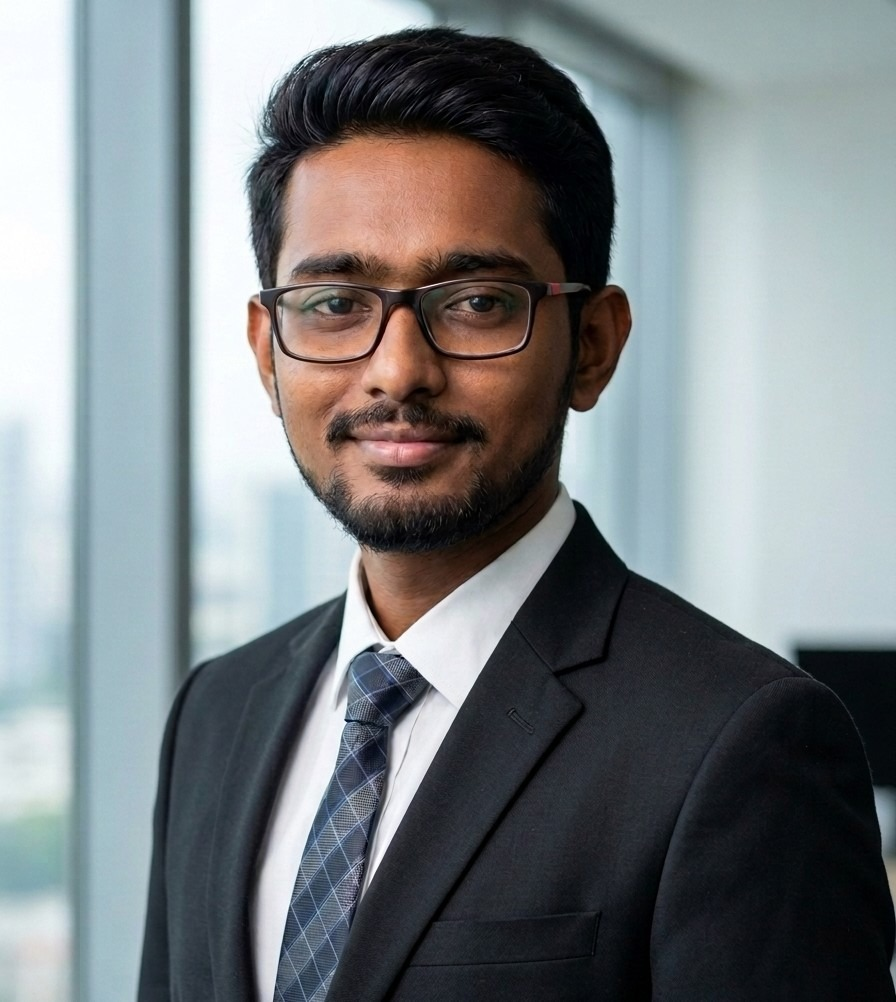
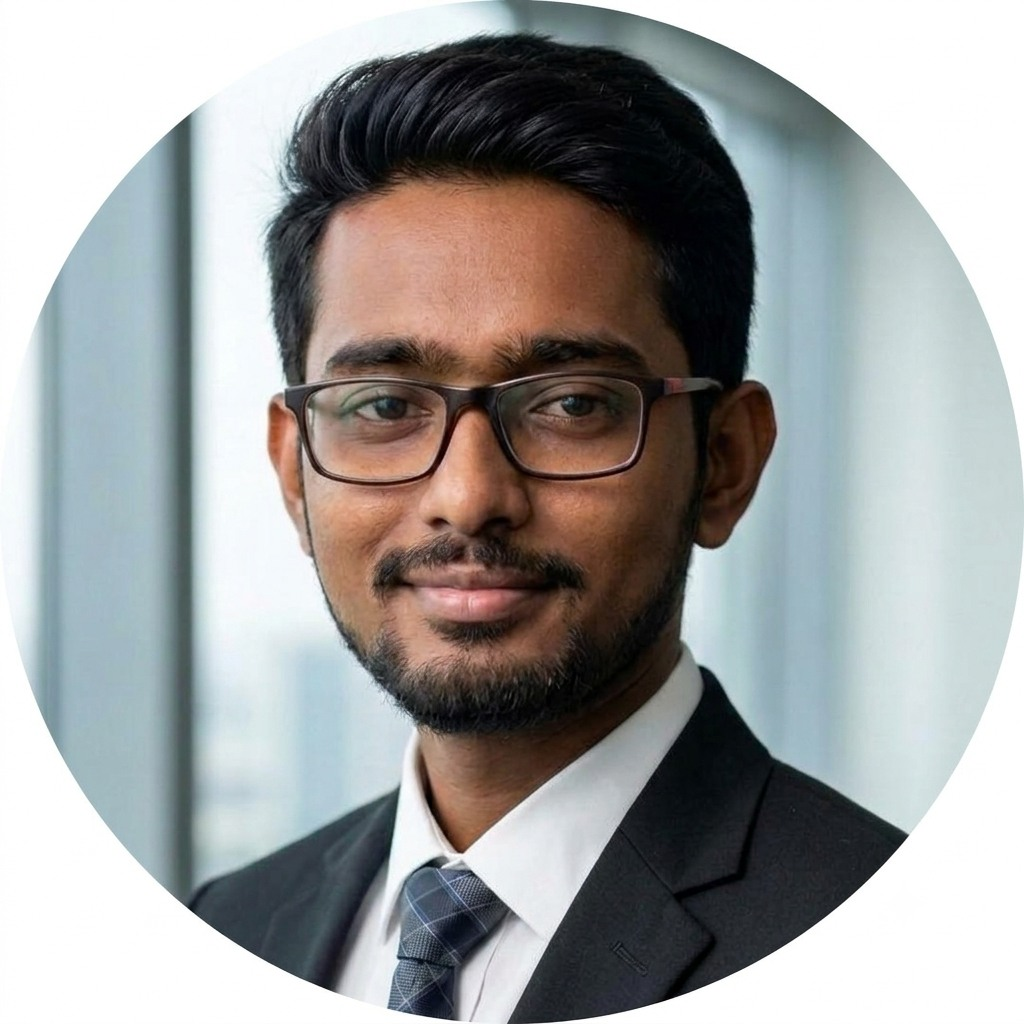
Replace profile photo with new executive headshot; update image dimension hints

diff --git a/index.html b/index.html
@@ -25,8 +25,8 @@
     <meta property="og:description" content="Executive Portfolio of Er. Debadattaa Jena — Founder &amp; CEO at PRYONX &amp; CLYVEXA. Architecting autonomous AI pipelines and enterprise operating systems.">
     <meta property="og:url" content="https://erdebadattajena.vercel.app/">
     <meta property="og:image" content="https://erdebadattajena.vercel.app/profile.jpg">
-    <meta property="og:image:width" content="896">
-    <meta property="og:image:height" content="1002">
+    <meta property="og:image:width" content="1024">
+    <meta property="og:image:height" content="1024">
     <meta property="og:image:alt" content="Er. Debadattaa Jena — Founder &amp; CEO, AI Architect">
     <meta property="og:site_name" content="Debadattaa Jena Executive Portfolio">
     <meta property="og:locale" content="en_US">
@@ -154,7 +154,7 @@
             <div class="nav-inner">
                 <a href="#home" class="nav-brand" aria-label="Er. Debadattaa Jena Home">
                     <div class="brand-avatar-wrap">
-                        <img src="profile.jpg" alt="Er. Debadattaa Jena" class="brand-avatar-img" width="896" height="1002" loading="lazy" decoding="async">
+                        <img src="profile.jpg" alt="Er. Debadattaa Jena" class="brand-avatar-img" width="1024" height="1024" loading="lazy" decoding="async">
                     </div>
                     <div class="brand-meta">
                         <span class="brand-name">Er. Debadattaa Jena</span>
@@ -264,7 +264,7 @@
                             <div class="portrait-card-wrapper" data-tilt>
                                 <div class="portrait-ambient-glow"></div>
                                 <div class="portrait-frame">
-                                    <img src="profile.jpg" alt="Er. Debadattaa Jena — Founder &amp; CEO, AI Architect" class="portrait-image" width="896" height="1002" fetchpriority="high" decoding="async">
+                                    <img src="profile.jpg" alt="Er. Debadattaa Jena — Founder &amp; CEO, AI Architect" class="portrait-image" width="1024" height="1024" fetchpriority="high" decoding="async">
                                     <div class="portrait-glass-overlay">
                                         <div class="portrait-badge">
                                             <span class="status-dot-pulse"></span>
@@ -1340,7 +1340,7 @@
                                 <div class="whatsapp-terminal-header">
                                     <div class="whatsapp-user-badge">
                                         <div class="whatsapp-avatar-wrap">
-                                            <img src="profile.jpg" alt="Er. Debadattaa Jena" class="whatsapp-avatar-img" width="896" height="1002" loading="lazy" decoding="async">
+                                            <img src="profile.jpg" alt="Er. Debadattaa Jena" class="whatsapp-avatar-img" width="1024" height="1024" loading="lazy" decoding="async">
                                         </div>
                                         <div>
                                             <div class="whatsapp-user-title">Er. Debadattaa Jena</div>
